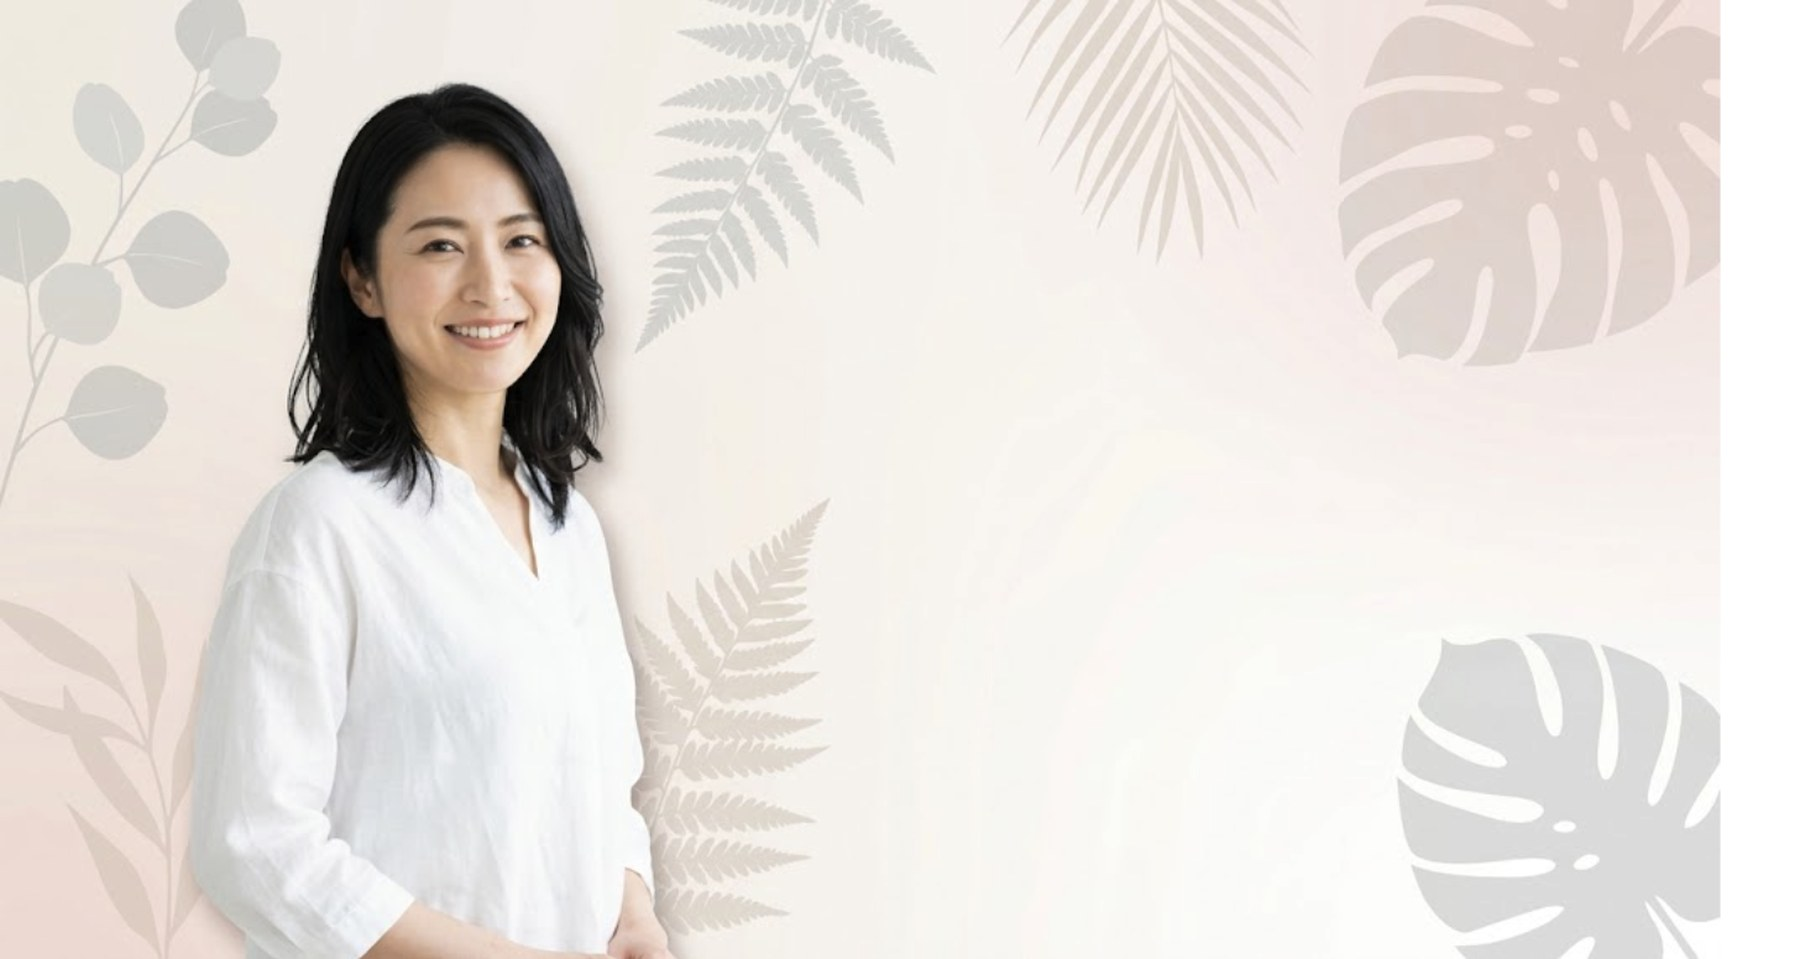
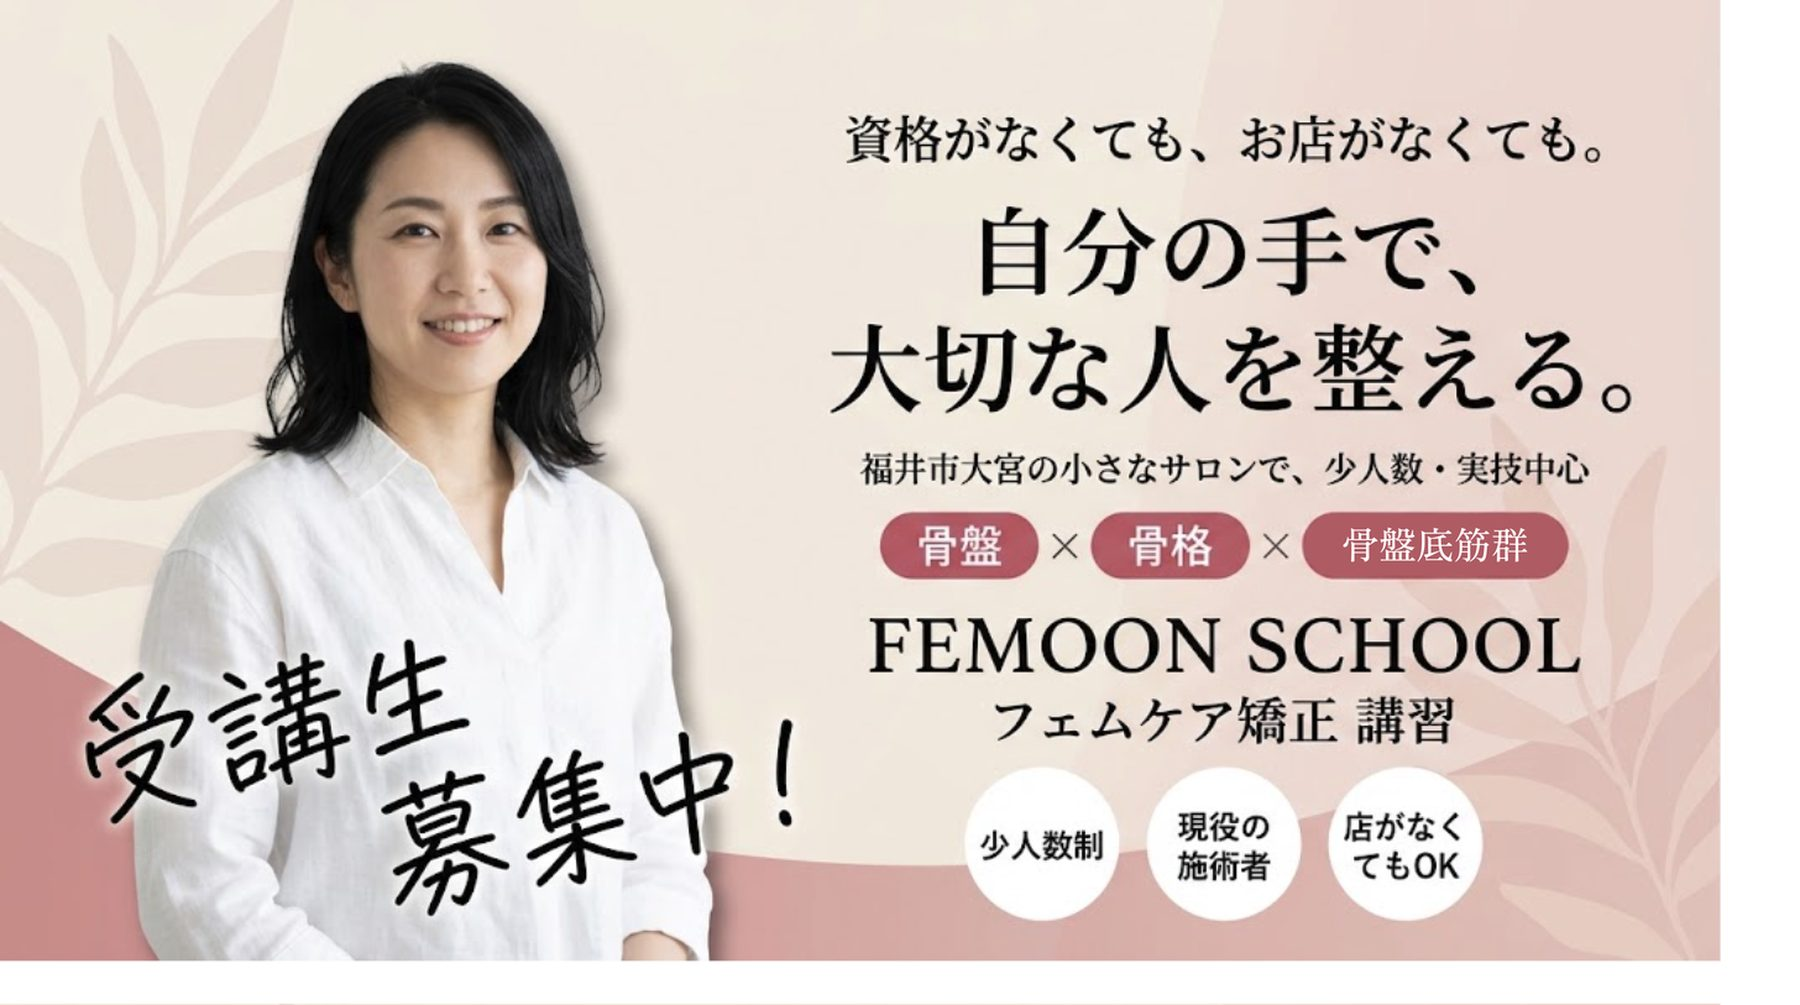
Add files via upload

diff --git a/assets/style.css b/assets/style.css
@@ -1142,3 +1142,13 @@ body.t-school{--tp-a:#FDF8EE;--tp-b:#F4E9D3;--tp-c:#FAF3E6;--wave-beige:#FBF7EE;
   .kv-script{left:12px;top:clamp(120px,34vw,170px);bottom:auto}
   .kv-fine{position:static;text-align:center;margin-top:14px}
 }
+
+
+/* ---------- 講習LP：バナー1枚のキービジュアル ---------- */
+.kvimg{background:var(--tex-beige);padding-bottom:clamp(18px,2.4vw,26px)}
+.kvimg picture,.kvimg>img{display:block;width:100%}
+.kvimg img{display:block;width:100%;height:auto}
+.kvimg-cta{display:flex;justify-content:center;align-items:center;gap:14px;flex-wrap:wrap;
+  padding-top:clamp(22px,3vw,34px)}
+.kvimg-fine{text-align:center;font-size:10.5px;letter-spacing:.04em;color:var(--faint);margin-top:14px}
+@media(max-width:600px){.kvimg-cta .btn-line,.kvimg-cta .btn-ghost-w{width:100%;justify-content:center}}
